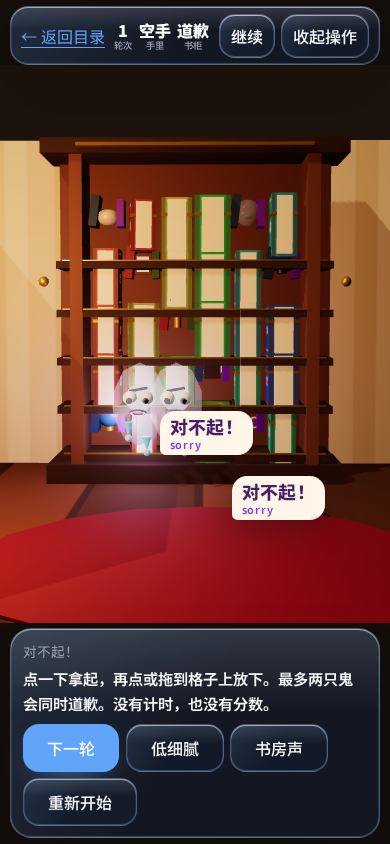
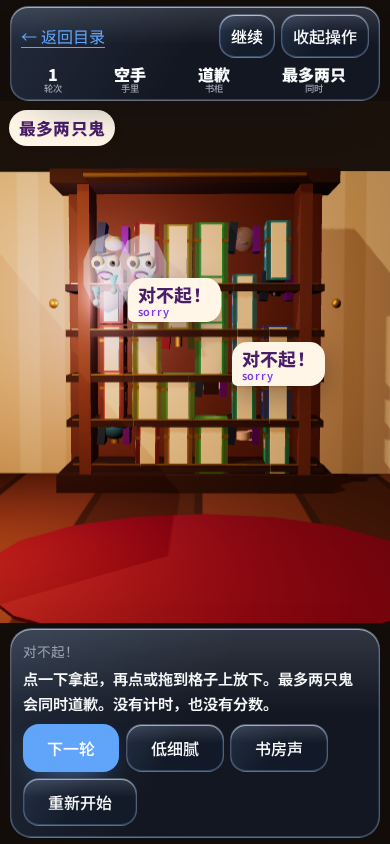
fix(kitchen): enlarge pan hits and lock compact haunt 两 on 390
Make bowls and pan pieces hittable, wrap phone HUDs, and keep compact haunt/pause copy as 两 in the live badge, header, and dock.

diff --git a/web/src/lib/games/kitchen/render.ts b/web/src/lib/games/kitchen/render.ts
@@ -68,8 +68,8 @@ export function mountKitchenScene(canvas: HTMLCanvasElement): KitchenScene | nul
 	const scene = new THREE.Scene();
 	scene.fog = new THREE.Fog(0xf3e4c8, 9, 16);
 	const camera = new THREE.PerspectiveCamera(42, 1, 0.08, 40);
-	camera.position.set(0, 5.15, 4.35);
-	camera.lookAt(0, 0.15, 0.1);
+	camera.position.set(0, 5.35, 4.2);
+	camera.lookAt(0, 0.12, 0.05);
 
 	const geos: Geo[] = [];
 	const mats: Array<{ dispose: () => void }> = [];
@@ -145,52 +145,60 @@ export function mountKitchenScene(canvas: HTMLCanvasElement): KitchenScene | nul
 
 	const bowls: Mesh[] = [];
 	const bowlFood: Mesh[] = [];
+	const bowlHits: Mesh[] = [];
 	FOOD_KINDS.forEach((kind, i) => {
 		const pos = bowlWorld(kind);
 		const bowl = new THREE.Mesh(cyl, ceramic);
-		bowl.scale.set(0.34, 0.14, 0.34);
+		bowl.scale.set(0.38, 0.14, 0.38);
 		bowl.position.set(pos.x, 0.16, pos.z);
 		bowl.castShadow = true;
 		bowl.userData = { zone: 'bowl', kind };
 		scene.add(bowl);
 		bowls.push(bowl);
 		const food = new THREE.Mesh(sphere, bowlMats[i]);
-		food.scale.set(0.22, 0.1, 0.22);
-		food.position.set(pos.x, 0.26, pos.z);
+		food.scale.set(0.26, 0.12, 0.26);
+		food.position.set(pos.x, 0.28, pos.z);
 		food.userData = { zone: 'bowl', kind };
 		scene.add(food);
 		bowlFood.push(food);
+		const bowlHit = new THREE.Mesh(cyl, keepMat(mat(0x222, { transparent: true, opacity: 0 })));
+		bowlHit.scale.set(0.52, 0.22, 0.52);
+		bowlHit.position.set(pos.x, 0.2, pos.z);
+		bowlHit.userData = { zone: 'bowl', kind };
+		scene.add(bowlHit);
+		bowlHits.push(bowlHit);
 	});
 
 	const panGroup = new THREE.Group();
 	panGroup.position.set(0, 0.16, 0.08);
-	const wok = new THREE.Mesh(sphere, iron);
-	wok.scale.set(0.92, 0.22, 0.92);
-	wok.position.y = 0.02;
+	const wok = new THREE.Mesh(cyl, iron);
+	wok.scale.set(0.78, 0.08, 0.78);
+	wok.position.y = 0.04;
 	wok.castShadow = true;
 	wok.userData = { zone: 'pan' };
 	const rim = new THREE.Mesh(torus, copper);
-	rim.scale.set(0.78, 0.78, 0.78);
+	rim.scale.set(0.72, 0.72, 0.72);
 	rim.rotation.x = Math.PI / 2;
-	rim.position.y = 0.16;
+	rim.position.y = 0.1;
 	rim.userData = { zone: 'pan' };
 	const handle = new THREE.Mesh(cyl, woodDark);
 	handle.scale.set(0.05, 0.55, 0.05);
 	handle.rotation.z = Math.PI / 2;
-	handle.position.set(1.05, 0.12, 0);
+	handle.position.set(1.05, 0.1, 0);
 	const panHit = new THREE.Mesh(cyl, keepMat(mat(0x222, { transparent: true, opacity: 0 })));
-	panHit.scale.set(0.82, 0.08, 0.82);
-	panHit.position.y = 0.12;
+	panHit.scale.set(0.9, 0.16, 0.9);
+	panHit.position.y = 0.16;
 	panHit.userData = { zone: 'pan' };
 	panGroup.add(wok, rim, handle, panHit);
 	scene.add(panGroup);
 
 	const flameGroup = new THREE.Group();
-	flameGroup.position.set(0, 0.02, 0.08);
-	for (let i = 0; i < 5; i++) {
+	flameGroup.position.set(0, 0.1, 0.08);
+	for (let i = 0; i < 8; i++) {
 		const f = new THREE.Mesh(cone, flameMat);
-		f.scale.set(0.12 + i * 0.02, 0.22 + (i % 2) * 0.08, 0.12 + i * 0.02);
-		f.position.set((i - 2) * 0.1, 0.1, (i % 2) * 0.06);
+		const a = (i / 8) * Math.PI * 2;
+		f.scale.set(0.08, 0.2, 0.08);
+		f.position.set(Math.cos(a) * 0.55, 0.02, Math.sin(a) * 0.55);
 		flameGroup.add(f);
 	}
 	scene.add(flameGroup);
@@ -217,8 +225,8 @@ export function mountKitchenScene(canvas: HTMLCanvasElement): KitchenScene | nul
 		scene.add(plate);
 		plates.push(plate);
 		const food = new THREE.Mesh(sphere, plateMats[i]);
-		food.scale.set(0.16, 0.07, 0.16);
-		food.position.set(pos.x, 0.2, pos.z);
+		food.scale.set(0.2, 0.1, 0.2);
+		food.position.set(pos.x, 0.22, pos.z);
 		food.visible = false;
 		food.userData = { zone: 'plate', slot: i };
 		scene.add(food);
@@ -237,14 +245,15 @@ export function mountKitchenScene(canvas: HTMLCanvasElement): KitchenScene | nul
 	const ray = new THREE.Raycaster();
 	const ndc = new THREE.Vector2();
 	const hitList: Obj[] = [
-		...bowls,
+		...pieces,
+		...bowlHits,
 		...bowlFood,
+		...bowls,
+		...platedFood,
+		...plates,
 		panHit,
 		wok,
-		rim,
-		...pieces,
-		...plates,
-		...platedFood
+		rim
 	];
 
 	function project(obj: Obj): { x: number; y: number } | null {
@@ -269,6 +278,14 @@ export function mountKitchenScene(canvas: HTMLCanvasElement): KitchenScene | nul
 		const h = canvas.clientHeight || 1;
 		renderer.setSize(w, h, false);
 		camera.aspect = w / h;
+		if (w / h < 0.7) {
+			camera.fov = 48;
+			camera.position.set(0, 6.35, 3.9);
+		} else {
+			camera.fov = 42;
+			camera.position.set(0, 5.35, 4.2);
+		}
+		camera.lookAt(0, 0.12, 0.15);
 		camera.updateProjectionMatrix();
 	}
 
@@ -286,16 +303,16 @@ export function mountKitchenScene(canvas: HTMLCanvasElement): KitchenScene | nul
 				const mesh = pieces[i];
 				if (!mesh) return;
 				mesh.visible = true;
-				mesh.position.set(piece.x, 0.18, piece.z);
+				mesh.position.set(piece.x, 0.22, piece.z);
 				const flat = pieceFlatten(piece.doneness);
 				const color = pieceColor(piece.kind, piece.doneness);
 				const m = panMats[i]!;
 				mesh.material = m;
 				(m as InstanceType<typeof THREE.MeshStandardMaterial>).color.setHex(color);
-				if (piece.kind === 'veg' || piece.kind === 'dough') mesh.scale.set(0.14, 0.07 * flat, 0.14);
+				if (piece.kind === 'veg' || piece.kind === 'dough') mesh.scale.set(0.22, 0.1 * flat, 0.22);
 				else if (piece.kind === 'tofu' || piece.kind === 'meat')
-					mesh.scale.set(0.12, 0.08 * flat, 0.16);
-				else mesh.scale.set(0.11, 0.11 * flat, 0.11);
+					mesh.scale.set(0.2, 0.11 * flat, 0.24);
+				else mesh.scale.set(0.18, 0.16 * flat, 0.18);
 				mesh.userData = { zone: 'piece', id: piece.id };
 			});
 			for (let i = world.pan.length; i < pieces.length; i++) pieces[i]!.visible = false;
@@ -346,8 +363,10 @@ export function mountKitchenScene(canvas: HTMLCanvasElement): KitchenScene | nul
 			ndc.y = -((clientY - rect.top) / rect.height) * 2 + 1;
 			ray.setFromCamera(ndc, camera);
 			const hits = ray.intersectObjects(hitList, false);
+			const ranked: KitchenHit[] = [];
 			for (const hit of hits) {
 				let node: Obj | null = hit.object;
+				if (!hit.object.visible) continue;
 				while (node) {
 					const data = node.userData as {
 						zone?: string;
@@ -355,20 +374,34 @@ export function mountKitchenScene(canvas: HTMLCanvasElement): KitchenScene | nul
 						id?: string;
 						slot?: number;
 					};
-					if (data.zone === 'bowl' && data.kind) return { zone: 'bowl', kind: data.kind };
-					if (data.zone === 'plate' && data.slot != null) return { zone: 'plate', slot: data.slot };
 					if (data.zone === 'piece' && data.id) {
 						const local = panGroup.worldToLocal(hit.point.clone());
-						return { zone: 'piece', id: data.id, x: local.x, z: local.z };
+						ranked.push({ zone: 'piece', id: data.id, x: local.x, z: local.z });
+						break;
+					}
+					if (data.zone === 'bowl' && data.kind) {
+						ranked.push({ zone: 'bowl', kind: data.kind });
+						break;
+					}
+					if (data.zone === 'plate' && data.slot != null) {
+						ranked.push({ zone: 'plate', slot: data.slot });
+						break;
 					}
 					if (data.zone === 'pan') {
 						const local = panGroup.worldToLocal(hit.point.clone());
-						return { zone: 'pan', x: local.x, z: local.z };
+						ranked.push({ zone: 'pan', x: local.x, z: local.z });
+						break;
 					}
 					node = node.parent;
 				}
 			}
-			return null;
+			return (
+				ranked.find((item) => item.zone === 'piece') ??
+				ranked.find((item) => item.zone === 'bowl') ??
+				ranked.find((item) => item.zone === 'plate') ??
+				ranked.find((item) => item.zone === 'pan') ??
+				null
+			);
 		},
 		projectBowl(kind) {
 			const i = FOOD_KINDS.indexOf(kind);

diff --git a/web/e2e/home-kitchen.e2e.ts b/web/e2e/home-kitchen.e2e.ts
@@ -104,7 +104,9 @@ test.describe('烹饪', () => {
 		const plate = await canvasPoint(stove, 'plx0', 'ply0');
 		await page.mouse.move(piece.x, piece.y);
 		await page.mouse.down();
-		await expect(stove).toHaveAttribute('data-held', /pan:/);
+		await expect
+			.poll(async () => stove.getAttribute('data-held'), { timeout: 4_000 })
+			.toMatch(/pan:/);
 		await page.mouse.move(plate.x, plate.y, { steps: 16 });
 		await page.mouse.up();
 		await expect.poll(async () => stove.getAttribute('data-plated'), { timeout: 8_000 }).toBe('1');
@@ -113,9 +115,9 @@ test.describe('烹饪', () => {
 
 		await dragKindToPan(page, stove, 'egg');
 		await expect.poll(async () => stove.getAttribute('data-pan')).toBe('1');
-		const cooked = Number(await stove.getAttribute('data-doneness'));
 		await page.getByRole('button', { name: '暂停' }).click();
 		await expect(stove).toHaveAttribute('data-anim', '0');
+		const cooked = Number(await stove.getAttribute('data-doneness'));
 		await page.waitForTimeout(800);
 		expect(Number(await stove.getAttribute('data-doneness'))).toBeCloseTo(cooked, 3);
 		await page.getByRole('button', { name: '继续' }).click();
@@ -134,7 +136,7 @@ test.describe('烹饪', () => {
 		await dragKindToPan(page, again, 'meat');
 		await expect.poll(async () => again.getAttribute('data-notice')).toMatch(/锅满了/);
 		await expect(again).toHaveAttribute('data-pan', '12');
-		await expect(page.getByText('锅满了')).toBeVisible();
+		await expect(page.locator('.notice')).toHaveText(/锅满了/);
 	});
 
 	test('390 drags into the pan with 44px heat chips', async ({ page }) => {
@@ -143,7 +145,7 @@ test.describe('烹饪', () => {
 		await boot(page);
 		await page.goto('/modules/games/home-kitchen/play', { waitUntil: 'networkidle' });
 		const stove = await waitKitchen(page);
-		await dragKindToPan(page, stove, 'shrimp');
+		await dragKindToPan(page, stove, 'veg');
 		await expect.poll(async () => stove.getAttribute('data-pan'), { timeout: 8_000 }).toBe('1');
 		const high = page.getByRole('button', { name: '武火' });
 		const box = await high.boundingBox();
@@ -168,7 +170,7 @@ test.describe('烹饪', () => {
 		await page.goto('/modules/games/cloud-walk/play', { waitUntil: 'networkidle' });
 		const sky = page.locator('canvas[aria-label="云上散步天空"]');
 		await expect(sky).toHaveAttribute('data-ready', '1', { timeout: 20_000 });
-		await expect.poll(async () => sky.getAttribute('data-yaw'), { timeout: 8_000 }).toBe('0');
+		await expect.poll(async () => sky.getAttribute('data-lookx'), { timeout: 8_000 }).not.toBeNull();
 		const idle = await sky.evaluate((el) => ({
 			x: Number(el.getAttribute('data-x')),
 			z: Number(el.getAttribute('data-z')),

diff --git a/web/src/lib/games/kitchen/sim.ts b/web/src/lib/games/kitchen/sim.ts
@@ -159,23 +159,35 @@ export function pickPanPiece(world: KitchenWorld, id: string) {
 	world.notice = `盛起${FOOD_LABEL[piece.kind]}。拖到盘子上，或在锅里搅拌。`;
 }
 
+function nestlePan(world: KitchenWorld, x: number, z: number) {
+	let px = clamp(x, -0.5, 0.5);
+	let pz = clamp(z, -0.5, 0.5);
+	const crowded = world.pan.some((piece) => Math.hypot(piece.x - px, piece.z - pz) < 0.14);
+	if (crowded || (world.pan.length > 0 && Math.hypot(px, pz) < 0.08)) {
+		const a = world.pan.length * 2.15;
+		const r = 0.22 + (world.pan.length % 3) * 0.08;
+		px = clamp(Math.cos(a) * r, -0.5, 0.5);
+		pz = clamp(Math.sin(a) * r, -0.5, 0.5);
+	}
+	return { x: px, z: pz };
+}
+
 export function dropOnPan(world: KitchenWorld, x: number, z: number): boolean {
 	const held = world.held;
 	if (!held) return false;
-	const px = clamp(x, -0.62, 0.62);
-	const pz = clamp(z, -0.62, 0.62);
 	if (held.source === 'bowl') {
 		if (world.pan.length >= PAN_CAP) {
 			world.notice = '锅满了';
 			world.held = null;
 			return false;
 		}
+		const at = nestlePan(world, x, z);
 		world.pan.push({
 			id: `k${world.nextId++}`,
 			kind: held.kind,
 			doneness: 0,
-			x: px,
-			z: pz
+			x: at.x,
+			z: at.z
 		});
 		world.held = null;
 		world.notice = `${FOOD_LABEL[held.kind]}下锅了。`;
@@ -186,8 +198,8 @@ export function dropOnPan(world: KitchenWorld, x: number, z: number): boolean {
 		world.held = null;
 		return false;
 	}
-	piece.x = px;
-	piece.z = pz;
+	piece.x = clamp(x, -0.5, 0.5);
+	piece.z = clamp(z, -0.5, 0.5);
 	world.held = null;
 	world.notice = '搅了一下。';
 	return true;
@@ -288,9 +300,9 @@ export function bowlSlot(kind: FoodKind) {
 
 export function bowlWorld(kind: FoodKind) {
 	const i = bowlSlot(kind);
-	return { x: -2.5 + i * 1, y: 0.28, z: -1.42 };
+	return { x: -1.75 + i * 0.7, y: 0.28, z: -1.18 };
 }
 
 export function plateWorld(slot: number) {
-	return { x: -2.45 + slot * 0.7, y: 0.12, z: 1.48 };
+	return { x: -1.75 + slot * 0.5, y: 0.12, z: 1.12 };
 }

diff --git a/web/src/lib/games/kitchen/KitchenPlay.svelte b/web/src/lib/games/kitchen/KitchenPlay.svelte
@@ -222,6 +222,7 @@
 		const stage = stageEl;
 		if (!canvas || !stage) return;
 		let cancelled = false;
+		let resizeObserver: ResizeObserver | undefined;
 		const motion = window.matchMedia('(prefers-reduced-motion: reduce)');
 
 		let pointerDown = false;
@@ -297,6 +298,11 @@
 			canvas.dataset.ready = '1';
 			scene?.sync(world, { reducedMotion: motion.matches });
 			paint(canvas, scene);
+			resizeObserver = new ResizeObserver(() => {
+				scene?.resize();
+				paint(canvas, scene);
+			});
+			resizeObserver.observe(stage);
 			const loop = (now: number) => {
 				const dt = Math.min(48, now - last);
 				last = now;
@@ -328,6 +334,7 @@
 			cancelled = true;
 			cancelAnimationFrame(raf);
 			clearInterval(interval);
+			resizeObserver?.disconnect();
 			window.removeEventListener('keydown', onKeyDown);
 			stage.removeEventListener('pointerdown', onDown);
 			stage.removeEventListener('pointermove', onMove);
@@ -490,6 +497,23 @@
 		display: flex;
 		gap: 0.35rem;
 		flex-shrink: 0;
+	}
+
+	@media (max-width: 640px) {
+		.top {
+			flex-wrap: wrap;
+		}
+
+		.stats {
+			order: 3;
+			flex: 1 0 100%;
+			justify-content: space-around;
+			gap: 0.35rem;
+		}
+
+		.top-actions {
+			margin-left: auto;
+		}
 	}
 
 	.stage {

diff --git a/web/src/lib/games/shelf/ShelfPlay.svelte b/web/src/lib/games/shelf/ShelfPlay.svelte
@@ -512,6 +512,23 @@
 		flex-shrink: 0;
 	}
 
+	@media (max-width: 640px) {
+		.top {
+			flex-wrap: wrap;
+		}
+
+		.stats {
+			order: 3;
+			flex: 1 0 100%;
+			justify-content: space-around;
+			gap: 0.35rem;
+		}
+
+		.top-actions {
+			margin-left: auto;
+		}
+	}
+
 	.stage {
 		position: relative;
 		flex: 1;
